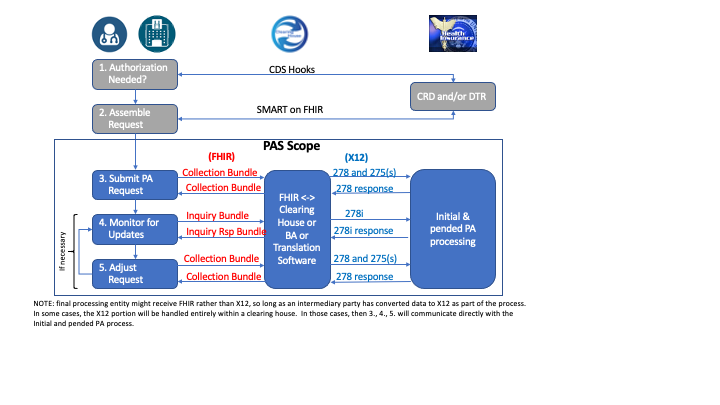
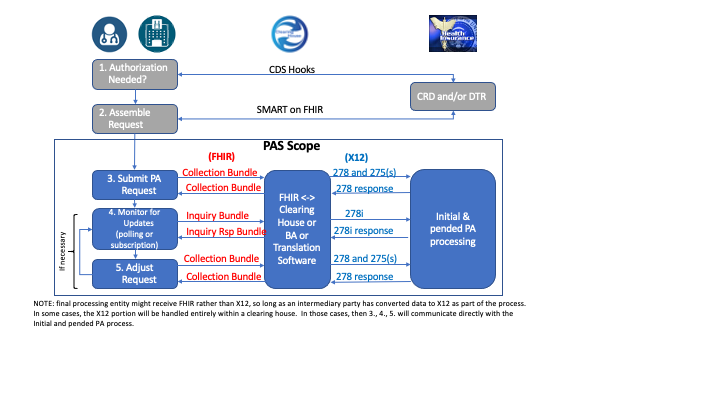
Updated pages based on final publication review.  Made all profile extensions MS.

Changed region(s): [[0.0917, 0.3852, 0.2444, 0.7111]]

diff --git a/fsh/ig-data/input/pagecontent/specification.md b/fsh/ig-data/input/pagecontent/specification.md
@@ -35,13 +35,15 @@ This specification makes significant use of [FHIR profiles]({{site.data.fhir.pat
 The full set of profiles defined in this implementation guide can be found by following the links on the [Artifacts](fhirArtifacts.html) page.
 
 #### Integration with other Implementation Guides
-* Implementations of the PAS implementation guide SHALL support the US Core R4 profiles for Condition, Observation, ServiceRequest and Procedure.  They SHOULD support any other profiles relevant to claims of the types relevant to the types of prior authorizations they process
-* While not strictly required, Clients and Servers supporting this implementation guide SHOULD also comply with the Da Vinci [Coverage requirements Discovery (CRD)](http://www.hl7.org/fhir/us/davinci-crd) and [Documentation Templates and Rules (DTR)](http://www.hl7.org/fhir/us/davinci-dtr) implementation guides
+* Implementations of the PAS implementation guide SHALL support the US Core R4 profiles for Condition, Observation, ServiceRequest and Procedure.  They SHOULD support any other profiles relevant to the types of prior authorizations they process
+* Clients and Servers supporting this implementation guide SHALL also comply with the Da Vinci [Coverage requirements Discovery (CRD)](http://www.hl7.org/fhir/us/davinci-crd) and [Documentation Templates and Rules (DTR)](http://www.hl7.org/fhir/us/davinci-dtr) implementation guides
 * Clients and Servers supporting this implementation guide SHOULD comply with the [Security and Privacy page in the Da Vinci HRex guide](http://hl7.org/fhir/us/davinci-hrex/2020Sep/security.html).
 
 ### Detailed Requirements
 
 #### Summary
+***NOTE*** FHIR uses a pair of resources called Claim and ClaimResponse for multiple purposes - they are used for actual claim submission, but they are *also* used for managing prior authorizations and pre-determinations.  These are distinguished by the Claim.use code.  **All references to Claim and ClaimResponse in this implementation guide are using it for the prior authorization purpose.**
+
 The primary interaction supported by this implementation guide is submitting a prior authorization request and receiving back a response.  To perform this, a [PASBundle](StructureDefinition-profile-pas-request-bundle.html) resource is constructed by the client (EHR) system.  That Bundle will contain a [Claim](StructureDefinition-profile-claim.html) resource (which FHIR uses to submit prior authorization requests), together with various referenced resources needed to support the population of the 5010 version of the ASC X12N 278 prior authorization request and the 6020 version of the ASC X12N 275 additional documentation transactions.
 
 {::options parse_block_html="false" /}
@@ -56,8 +58,6 @@ This Bundle will then be sent as the sole payload of a [Claim/$submit](Operation
 
 In the event that the prior authorization cannot be evaluated and a final response returned within the required timeframe, a response in which one or more of the requested authorization items are 'pended' will be returned.  The client (or other interested systems - e.g. patient, caregiver or performing provider systems) can then query the endpoint for the final results using either a polling or subscription-based mechanism.  During this period of time, the same $submit operation can be used to request cancellation or modification of the prior authorization.
 
-***NOTE*** FHIR uses a pair of resources called Claim and ClaimResponse for multiple purposes - they are used for actual claim submission, but they are *also* used for managing prior authorizations and pre-determinations.  These are distinguished by the Claim.use code.  All references to Claim and ClaimResponse in this implementation guide are using it for the prior authorization purpose.
-
 {::options parse_block_html="false" /}
 <figure>
   <img style="padding-top:0;padding-bottom:30px" width="800px" src="pas_sequence_diagram.png" alt="PAS Submission Sequence Diagram"/>
@@ -68,7 +68,12 @@ In the event that the prior authorization cannot be evaluated and a final respon
 
 
 #### Prior authorization submission
-The Claim/$submit operation is executed by POSTing a FHIR Bundle to the [base url]/Claim/$submit endpoint.  The Bundle can be encoded in either JSON or XML.  (Servers SHALL support both syntaxes.)  The first entry in the Bundle SHALL be a Claim resource complying with the [profile](StructureDefinition-profile-claim.html) defined in this IG to ensure the content is sufficient to appropriately populate an X12N 278 message.  Additional Bundle entries SHALL be populated with any resources referenced by the Claim resource (and any resources referenced by *those* resources, fully traversing all references and complying with all identified profiles).  Note that even if a given resource instance is referenced multiple times, it SHALL only appear in the Bundle once.  Bundle.entry.fullUrl values SHALL be the URL at which the resource is available from the EHR if exposed via the client's REST interface and SHALL be of the form "urn:uuid:[some guid]" otherwise.  All GUIDs used SHALL be unique, including across independent prior authorization submissions - with the exception that the same resource instance being referenced in distinct prior authorization request Bundles can have the same GUID.
+The Claim/$submit operation is executed by POSTing a FHIR Bundle to the [base url]/Claim/$submit endpoint.  The Bundle can be encoded in either JSON or XML.  (Servers SHALL support both syntaxes.)  The first entry in the Bundle SHALL be a Claim resource complying with the [profile](StructureDefinition-profile-claim.html) defined in this IG to ensure the content is sufficient to appropriately populate an X12N 278 message.  Additional Bundle entries SHALL be populated with any resources referenced by the Claim resource (and any resources referenced by *those* resources, fully traversing all references and complying with all identified profiles).  Note that even if a given resource instance is referenced multiple times, it SHALL only appear in the Bundle once.  E.g., if the same Practitioner information is referenced in multiple places, only one Practitioner instance should be created - referenced from multiple places as appropriate.  Bundle.entry.fullUrl values SHALL be:
+
+* the URL at which the resource is available from the EHR if exposed via the client's REST interface; or
+* the form "urn:uuid:[some guid]"  
+ 
+All GUIDs used SHALL be unique, including across independent prior authorization submissions - with the exception that the same resource instance being referenced in distinct prior authorization request Bundles can have the same GUID.
 
 In addition to these core elements needed to populate the 278 message, any "supporting information" resources needed to process the prior authorization request (whether determined by DTR processes or by other means) must also be included in the Bundle.  Relevant resources referenced by those "supporting information" resources SHALL also be included (e.g. prescriber Practitioner and Medication for a MedicationRequest).  Any such resource that has a US Core profile SHALL comply with the relevant US Core profiles.  All "supporting information" resources included in the Bundle SHALL be pointed to by the Claim resource using the Claim.supportingInfo.valueReference element.  To attach PDFs, CDAs, JPGs, a DocumentReference instance should be used.  The Claim.supportingInfo.sequence for each entry SHALL be unique within the Claim.
 
@@ -87,7 +92,7 @@ The mapping of Claim.item is driven by the X12 workflow with the use of identifi
 This IG treats everything that happens beyond the defined operations endpoint receiving the FHIR bundle as a black box.  This black box includes any business associate(s), clearinghouse(s), payers, contracted review entities,  and other intermediaries that may be involved in the PA request and response. It is up to that black box to ensure that any regulatory requirements are met and to perform all processing within the allowed timeframe.
 
 #### Prior authorization response
-The response to the prior authorization is processed in the reverse order as the request.  The system is responsible for converting the ASC X12N 278 response into a FHIR [Bundle](StructureDefinition-profile-pas-response-bundle.html).  The Bundle SHALL start with a [ClaimResponse](StructureDefinition-profile-claimresponse.html) entry that contains information mapped from the 278 response.  As well, just like for the prior authorization request, additional Bundle entries must be present for all resources referenced by the ClaimResponse or descendent references.  When converting additional Bundle entries, the conversion process SHOULD ensure that only one resource is created for a given combination of content.  E.g. if the same Practitioner information is referenced in multiple places, only one Practitioner instance should be created - referenced from multiple places as appropriate.  When echoing back resources that are the same as were present in the prior authorization request, the system SHALL ensure that the same fullUrl and resource identifiers are used in the response as appeared in the request.
+The response to the prior authorization is processed in the reverse order as the request.  The system is responsible for converting the ASC X12N 278 response into a FHIR [Bundle](StructureDefinition-profile-pas-response-bundle.html).  The Bundle SHALL start with a [ClaimResponse](StructureDefinition-profile-claimresponse.html) entry that contains information mapped from the 278 response.  As well, just like for the prior authorization request, additional Bundle entries must be present for all resources referenced by the ClaimResponse or descendent references.  When converting additional Bundle entries, the conversion process SHALL ensure that only one resource is created for a given combination of content.  E.g. if the same Practitioner information is referenced in multiple places, only one Practitioner instance should be created - referenced from multiple places as appropriate.  When echoing back resources that are the same as were present in the prior authorization request, the system SHALL ensure that the same fullUrl and resource identifiers are used in the response as appeared in the request.
 
 It is possible that the incoming prior authorization Bundle can not be processed due to validation errors or other non-business-errors.  In these instances, the receiving system SHALL return OperationOutcome intances that detail why the Bundle could not be processed and no ClaimResponse will be returned.  These errors are NOT the errors that are detected by the system processing the request and that can be conveyed in a ClaimResponse via the error capability.
 
@@ -106,17 +111,18 @@ After review, Maryland Capital approves the referral and responds.
 When the ClaimResponse.reviewaction.code is the X12 code for pended, it means that the payer requires additional time to make a final determination on all items within the prior authorization request.  In this situation, the client system will need to retrieve the prior authorization response at a later point once a final decision has been made.  There are two possible options - polling and subscription.  Implementers SHOULD support subscription.  Servers SHALL support polling in situations where either party is unable to use the subscription approach.
 
 Note: There are use-cases for multiple systems potentially needing to check on the status of a pended prior authorization.  In addition to the provider who submitted the prior authorization request, the status might also be of interest to:
-* the provider(s) who will be involved in delivering the service for which authorization was sought,
+
+* the provider(s) who will be involved in delivering the service for which authorization was sought
 * the patient
 * the patient's caregivers
 * other members of the patient's care team
 
-As a result, queries seeking the status of the prior authorization response may come from multiple systems.  Servers SHALL permit access to the prior authorization response to systems other than the original submitter.  They SHALL require a match on both patient coverage id (identifier on the Claim.patient) and prior authorization id (Claim.identifier) to ensure access is only granted to individuals who know both - and thus have demonstrated a need to know.
+As a result, queries seeking the status of the prior authorization response may come from multiple systems.  Servers SHALL permit access to the prior authorization response to systems other than the original submitter.  They SHALL require a match on the patient member or subscriber id (identifier on the Claim.patient).
 
 {% raw %}
 <blockquote class="stu-note">
 <p>
-We recognize that knowledge of the original Prior Authorization identifier and the Patient Coverage identifier may not be sufficient access-control for subsquent queries.  We are looking for implementer feedback on this, in particular, on how to pass information through the X12 inquiry mechanism to the payer that help attest to the 'right to know'.
+We recognize that knowledge of the Patient member or subscriber identifier may not be sufficient access-control for subsquent queries.  We are looking for implementer feedback on this, in particular, on how to pass information through the X12 inquiry mechanism to the payer that help attest to the 'right to know'.
 </p>
 </blockquote>
 {% endraw %}
@@ -133,7 +139,7 @@ The project is seeking feedback on whether these maximum frequency requirements 
 </p>
 </blockquote>
 
-The intermediary SHOULD execute a 278i to return the status.  However, if the payer does not support that function, the intermediary SHALL return the most recent copy of the prior authorization response as received from the payer.  (Note that in this latter case, the intermediary would need to persist prior authorization information and would therefore be a 'covered entity' for HIPAA purposes.)
+The intermediary SHOULD execute a 278i to return the status.  However, if the payer does not support that function, the intermediary SHALL return the most recent copy of the prior authorization response as received from the payer.
 
 Notes:
 * the returned ClaimResponse SHALL include the current results for all submitted items, including any items changed or cancelled since the original authoriation request.  (See [Changing authorization requests](#changing-authorization-requests) below.)
@@ -187,7 +193,7 @@ In this case, the prior authorization request is handled in a typical FHIR manne
 
 The intermediary will create 278 and/or 275 submissions that instantiate the changes (by looking for those items and supportingInfo elements) and will ignore the unchanged items.
 
-The benefit of this approach is that it is consistent with the way the prior authorization would need to be passed around if ever shared in a RESTful manner.  However, it can be bandwidth intensive if the prior authorization contains a large number of items, but only a small number of those have changed.  Unfortunately, the typical FHIR [patch]({{site.data.fhir.path}}http.html#patch) mechanism cannot be used in this implementation guide because the intermediaries do not have (and cannot have for regulatory reasons) a locally stored copy of the original prior authorization, nor any mechanism to retrieve one.
+The benefit of this approach is that it is consistent with the way the prior authorization would need to be passed around if ever shared in a RESTful manner.  However, it can be bandwidth intensive if the prior authorization contains a large number of items, but only a small number of those have changed.
 
 ###### Full Request Example
 An example of a changed full request can be found at [Updated Homecare Request](Bundle-HomecareAuthorizationUpdateBundleExample.html) along with the [original Homecare Request](Bundle-HomecareAuthorizationBundleExample.html).
@@ -225,7 +231,7 @@ Some of the data shared as part of the prior authorization process may have asso
 
 In order to access information about a prior authorization, the provider system will need to access the payor system. This will require that the provider system authenticates to the payer system or an intermediary. The specifics of how this authentication are covered is handled within the Da Vinci HRex Implementation guide.  PAS Servers SHOULD support server-server OAuth and MAY support mutually authenticated TLS.  In a future release of this guide, direction will limit the option to server-server OAuth.  Every system implementing the Prior Authorization guide will need to be aware of and follow the guidance in the FHIR Core Specification on [Clinical Safety](http://hl7.org/fhir/safety.html) and the [Security and Privacy page in the Da Vinci HRex guide](http://hl7.org/fhir/us/davinci-hrex/2020Sep/security.html).
 
-Once the system authentication has occurred, there will be presumed authorization for the provider to see the current state of the prior authorization. The system will rely on audit and regulatory/payer consequences to ensure that prior authorizations are not accessed without a legitimate business requirement. This approach is used because there is no reasonable way for a payer to know 'a priori' whether a given provider has a legitimate need to know tha prior authorization status or for the patient to be involved in verifying their need to know.
+Once the system authentication has occurred, the payer will perform any authorization required for the provider to see the current state of the prior authorization.
 
 ### Testing Requirements
 It is the intent of this implementation guide to provide specifications for the exchange of prior authorization in a way that is conducive to developing test scripts and a reference implementation (RI) that can be used to validate/exercise the IG at connectathons and during piloting and production deployment. It is also the intent of this guide that any test scripts will include testing of: 

diff --git a/fsh/ig-data/input/pagecontent/usecases.md b/fsh/ig-data/input/pagecontent/usecases.md
@@ -19,7 +19,7 @@ However, adoption of X12 Authorization and Attachment transactions by EHR implem
 Discussion with EHR implementers has suggested that a FHIR-based process for submitting prior authorization requests would have significantly higher uptake.  As well, there is a desire by some payers to consume content in FHIR format.  This implementation guide attempts to do that while still retaining compliance with HIPAA requirements.
 
 ### Business Requirements
-The objective of this implementation guide is to provide a vehicle for automation of a prior authorization request and response within the clinical workflow of the provider.  The IG uses the FHIR standard as the basis for assembling the information necessary to substantiate the need for a particular treatment, and to submit that information and the request for prior authorization to an intermediary end point.  That endpoint is responsible for ensuring that any HIPAA Transaction and Code Set requirements are met (see above). The response from the payer is intended to come back to that intermediary endpoint and be available to the provider's EHR solution using the FHIR  standard.  The goal is to provide real time prior authorization, where possible, in the provider's clinical workflow.  The X12 portion of the exchange happens in a 'black box' that the submitting system needs no visibility into.  This 'black box' is a service responsible for communication with a payer or their agent and handles any HIPAA requirements that may exist.  This service can be the provider's software or an external agent or clearinghouse.
+The objective of this implementation guide is to provide a vehicle for automation of a prior authorization request and response within the clinical workflow of the provider.  The IG uses the FHIR standard as the basis for assembling the information necessary to substantiate the need for a particular treatment, and to submit that information and the request for prior authorization to an intermediary end point.  That endpoint is responsible for ensuring that any HIPAA Transaction and Code Set requirements are met (see above). The response from the payer is intended to come back to that intermediary endpoint and be available to the provider's EHR solution using the FHIR  standard.  The goal is to provide real time prior authorization, where possible, in the provider's clinical workflow.  The X12 portion of the exchange happens in a 'black box' that the submitting system needs no visibility into.  This 'black box' is a service responsible for communication with a payer or their agent and handles any HIPAA requirements that may exist.  This service can be the provider's software, an external agent, a clearinghouse, or, if there is a HIPAA exception, the payer.  In the latter case, there may not be a requirement to convert into and out of X12 and the FHIR bundle will be exchanged directly with the payer.
 
 {::options parse_block_html="false" /}
 <figure>
@@ -47,7 +47,7 @@ In Scope
 
 Out Of Scope
 
-1. SHOULD not be used for any Medication that is covered under a prescription drug program benefit where PA is provided by another electronic exchange process (e.g. NCPCP Script)
+1. SHOULD not be used for any Medication that is covered under a prescription drug program benefit where PA is provided by another electronic exchange process (e.g. NCPCP SCRIPT)
 
 #### Prior Authorization Process
 The prior authorization process from the EHR side consists of five steps:
@@ -93,7 +93,7 @@ In those situations where the prior authorization request is 'pended', the EHR m
 Also, in situations where a request is 'pended', there may occasionally be needs to update the authorization request.  This might involve the provider cancelling it (because the service is no longer needed/relevant) or adjusting the description of the procedure for which authorization is requested (e.g. minor change to a procedure code, changing the timeframe or required number of repetitions based on new clinical information).
 
 #### Submit additional information
-With the use of DTR, this scenario should be extremely uncommon.  However, in some cases an authorization will have a status of denied or pended due to insufficient information, which will normally be indicated either by error messages indicating which mandatory elements were missing or with a request for specific additional information to be provided.  In this case, a new or revised authorization request can be submitted with additional information supplied to support the decision-making process.  Alternately, the payor may keep the request pended and simply request additional information.  This specification does not cover the process of appeals as it is not handled by the X12 278 transaction. Providers should consult the payer in question to determine the appropriate appeals mechanism.
+With the use of DTR, this scenario should be extremely uncommon.  However, in some cases an authorization will have a status of denied or pended due to insufficient information, which will normally be indicated either by error messages indicating which mandatory elements were missing or with a request for specific additional information to be provided.  In this case, a new or revised authorization request can be submitted with additional information supplied to support the decision-making process.  Alternately, the payor may keep the request pended and simply request additional information.  This specification does not cover the process of appeals. Providers should consult the payer in question to determine the appropriate appeals mechanism.
 
 ### Supporting information
 To evaluate whether a given service will be covered, a payer may need to understand additional information about the patient.  There are three main categories of such information:

diff --git a/fsh/ig-data/input/pagecontent/index.md b/fsh/ig-data/input/pagecontent/index.md
@@ -14,7 +14,7 @@ This implementation guide is dependent on other specifications.  Please submit a
 Individuals interested in participating in the Prior Authorization Support or other HL7 Da Vinci projects can find information about Da Vinci <a href="http://www.hl7.org/about/davinci">here</a>.
 </p>
 <p>
-Note that this implementation guide is intended to support mapping between FHIR and X12 transactions.  To respect X12 intellectual property, all mapping and X12-specific terminology information will be solely published by X12 and made available in accordance with X12 rules - which may require membership and/or payment.
+Note that this implementation guide is intended to support mapping between FHIR and X12 transactions.  To respect X12 intellectual property, all mapping and X12-specific terminology information will be solely published by X12 and made available in accordance with X12 rules - which may require membership and/or payment.  Please see this <a href="https://confluence.hl7.org/display/DVP/Da+Vinci+Reference+to+External+Standards+and+Terminologies">Da Vinci External Reference page</a> for details on how to get this mapping.
 </p>
 <p>
 Several of the profiles will require use of terminologies that are part of X12 which we anticipate being made publicly available.  At such time as this occurs, the implementation guide will be updated to bind to these as external terminologies.

diff --git a/fsh/ig-data/input/pagecontent/background.md b/fsh/ig-data/input/pagecontent/background.md
@@ -47,3 +47,5 @@ The intention of this implementation guide is that detailed knowledge of X12N is
 * ASC X12N/005010X217 - Health Care Services Review - Request for Review and Response (278) - provide standardized data requirements and content for all users who request authorizations or certifications or who respond to such requests 
 * ASC X12N/005010X215 - Health Care Services Review - Inqury and Response (278) - provide standardized data requirements and content for all users who inquire on authorizations or certifications or who respond to such inquiries
 * ASC X12N/006020X316 - Additional Information to Support a Health Care Services Review (275) - provide standardized data requirements and content to send additional information about a healthcare service review.
+
+NOTE: At the time of publication, only the use of ASC X12N/005010X217 is mandated by HIPAA.

diff --git a/fsh/ig-data/input/pagecontent/credits.md b/fsh/ig-data/input/pagecontent/credits.md
@@ -28,7 +28,7 @@ This implementation guide was initiated created with the support of the twenty-t
 
 Organizational participants (those organizations having attendees on at least 4 calls) included:
 
-* AMA (Heather, Terry Cunningham)
+* AMA (Heather McComas, Terry Cunningham)
 * Anthem (Barbara Antuna, Alberto Llanes, Christol Green, Karen Zapata, Mary Bushman, Sudhir Nair)
 * Azuba (Bart Carlson)
 * Blue Cross Blue Shield of Alabama (Kelly Anderson, Kevin Lambert, Tony Benson)
